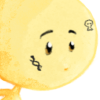
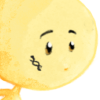
adding more shoes and mouth

Changed region(s): [[0.84, 0.18, 0.93, 0.33]]

diff --git a/src/utils/data/avatarData.ts b/src/utils/data/avatarData.ts
@@ -74,6 +74,7 @@ import mouth17 from '../../assets/images/mouth/thumb17.png'
 import mouth18 from '../../assets/images/mouth/thumb18.png'
 import mouth19 from '../../assets/images/mouth/thumb19.png'
 import mouth20 from '../../assets/images/mouth/thumb20.png'
+import mouth21 from '../../assets/images/mouth/thumb21.png'
 
 import mouthImg1 from '../../assets/images/mouth/mouth01.png'
 import mouthImg2 from '../../assets/images/mouth/mouth02.png'
@@ -95,6 +96,7 @@ import mouthImg17 from '../../assets/images/mouth/mouth17.png'
 import mouthImg18 from '../../assets/images/mouth/mouth18.png'
 import mouthImg19 from '../../assets/images/mouth/mouth19.png'
 import mouthImg20 from '../../assets/images/mouth/mouth20.png'
+import mouthImg21 from '../../assets/images/mouth/mouth21.png'
 
 import hair1 from '../../assets/images/hair/thumb01.png'
 import hair2 from '../../assets/images/hair/thumb02.png'
@@ -141,12 +143,26 @@ import shoes2 from '../../assets/images/shoes/thumb02.png'
 import shoes3 from '../../assets/images/shoes/thumb03.png'
 import shoes4 from '../../assets/images/shoes/thumb04.png'
 import shoes5 from '../../assets/images/shoes/thumb05.png'
+import shoes6 from '../../assets/images/shoes/thumb06.png'
+import shoes7 from '../../assets/images/shoes/thumb07.png'
+import shoes8 from '../../assets/images/shoes/thumb08.png'
+import shoes9 from '../../assets/images/shoes/thumb09.png'
+import shoes10 from '../../assets/images/shoes/thumb10.png'
+import shoes11 from '../../assets/images/shoes/thumb11.png'
+import shoes12 from '../../assets/images/shoes/thumb12.png'
 
 import shoesImg1 from '../../assets/images/shoes/shoes01.png'
 import shoesImg2 from '../../assets/images/shoes/shoes02.png'
 import shoesImg3 from '../../assets/images/shoes/shoes03.png'
 import shoesImg4 from '../../assets/images/shoes/shoes04.png'
 import shoesImg5 from '../../assets/images/shoes/shoes05.png'
+import shoesImg6 from '../../assets/images/shoes/shoes06.png'
+import shoesImg7 from '../../assets/images/shoes/shoes07.png'
+import shoesImg8 from '../../assets/images/shoes/shoes08.png'
+import shoesImg9 from '../../assets/images/shoes/shoes09.png'
+import shoesImg10 from '../../assets/images/shoes/shoes10.png'
+import shoesImg11 from '../../assets/images/shoes/shoes11.png'
+import shoesImg12 from '../../assets/images/shoes/shoes12.png'
 
 import features1 from '../../assets/images/features/thumb01.png'
 import features2 from '../../assets/images/features/thumb02.png'
@@ -372,6 +388,10 @@ export const avatarData = [
             {
                 thumb: mouth20,
                 full: mouthImg20
+            },
+            {
+                thumb: mouth21,
+                full: mouthImg21
             }
         ]
     },
@@ -496,6 +516,34 @@ export const avatarData = [
             {
                 thumb: shoes5,
                 full: shoesImg5
+            },
+            {
+                thumb: shoes6,
+                full: shoesImg6
+            },
+            {
+                thumb: shoes7,
+                full: shoesImg7
+            },
+            {
+                thumb: shoes8,
+                full: shoesImg8
+            },
+            {
+                thumb: shoes9,
+                full: shoesImg9
+            },
+            {
+                thumb: shoes10,
+                full: shoesImg10
+            },
+            {
+                thumb: shoes11,
+                full: shoesImg11
+            },
+            {
+                thumb: shoes12,
+                full: shoesImg12
             }
         ]
     },
